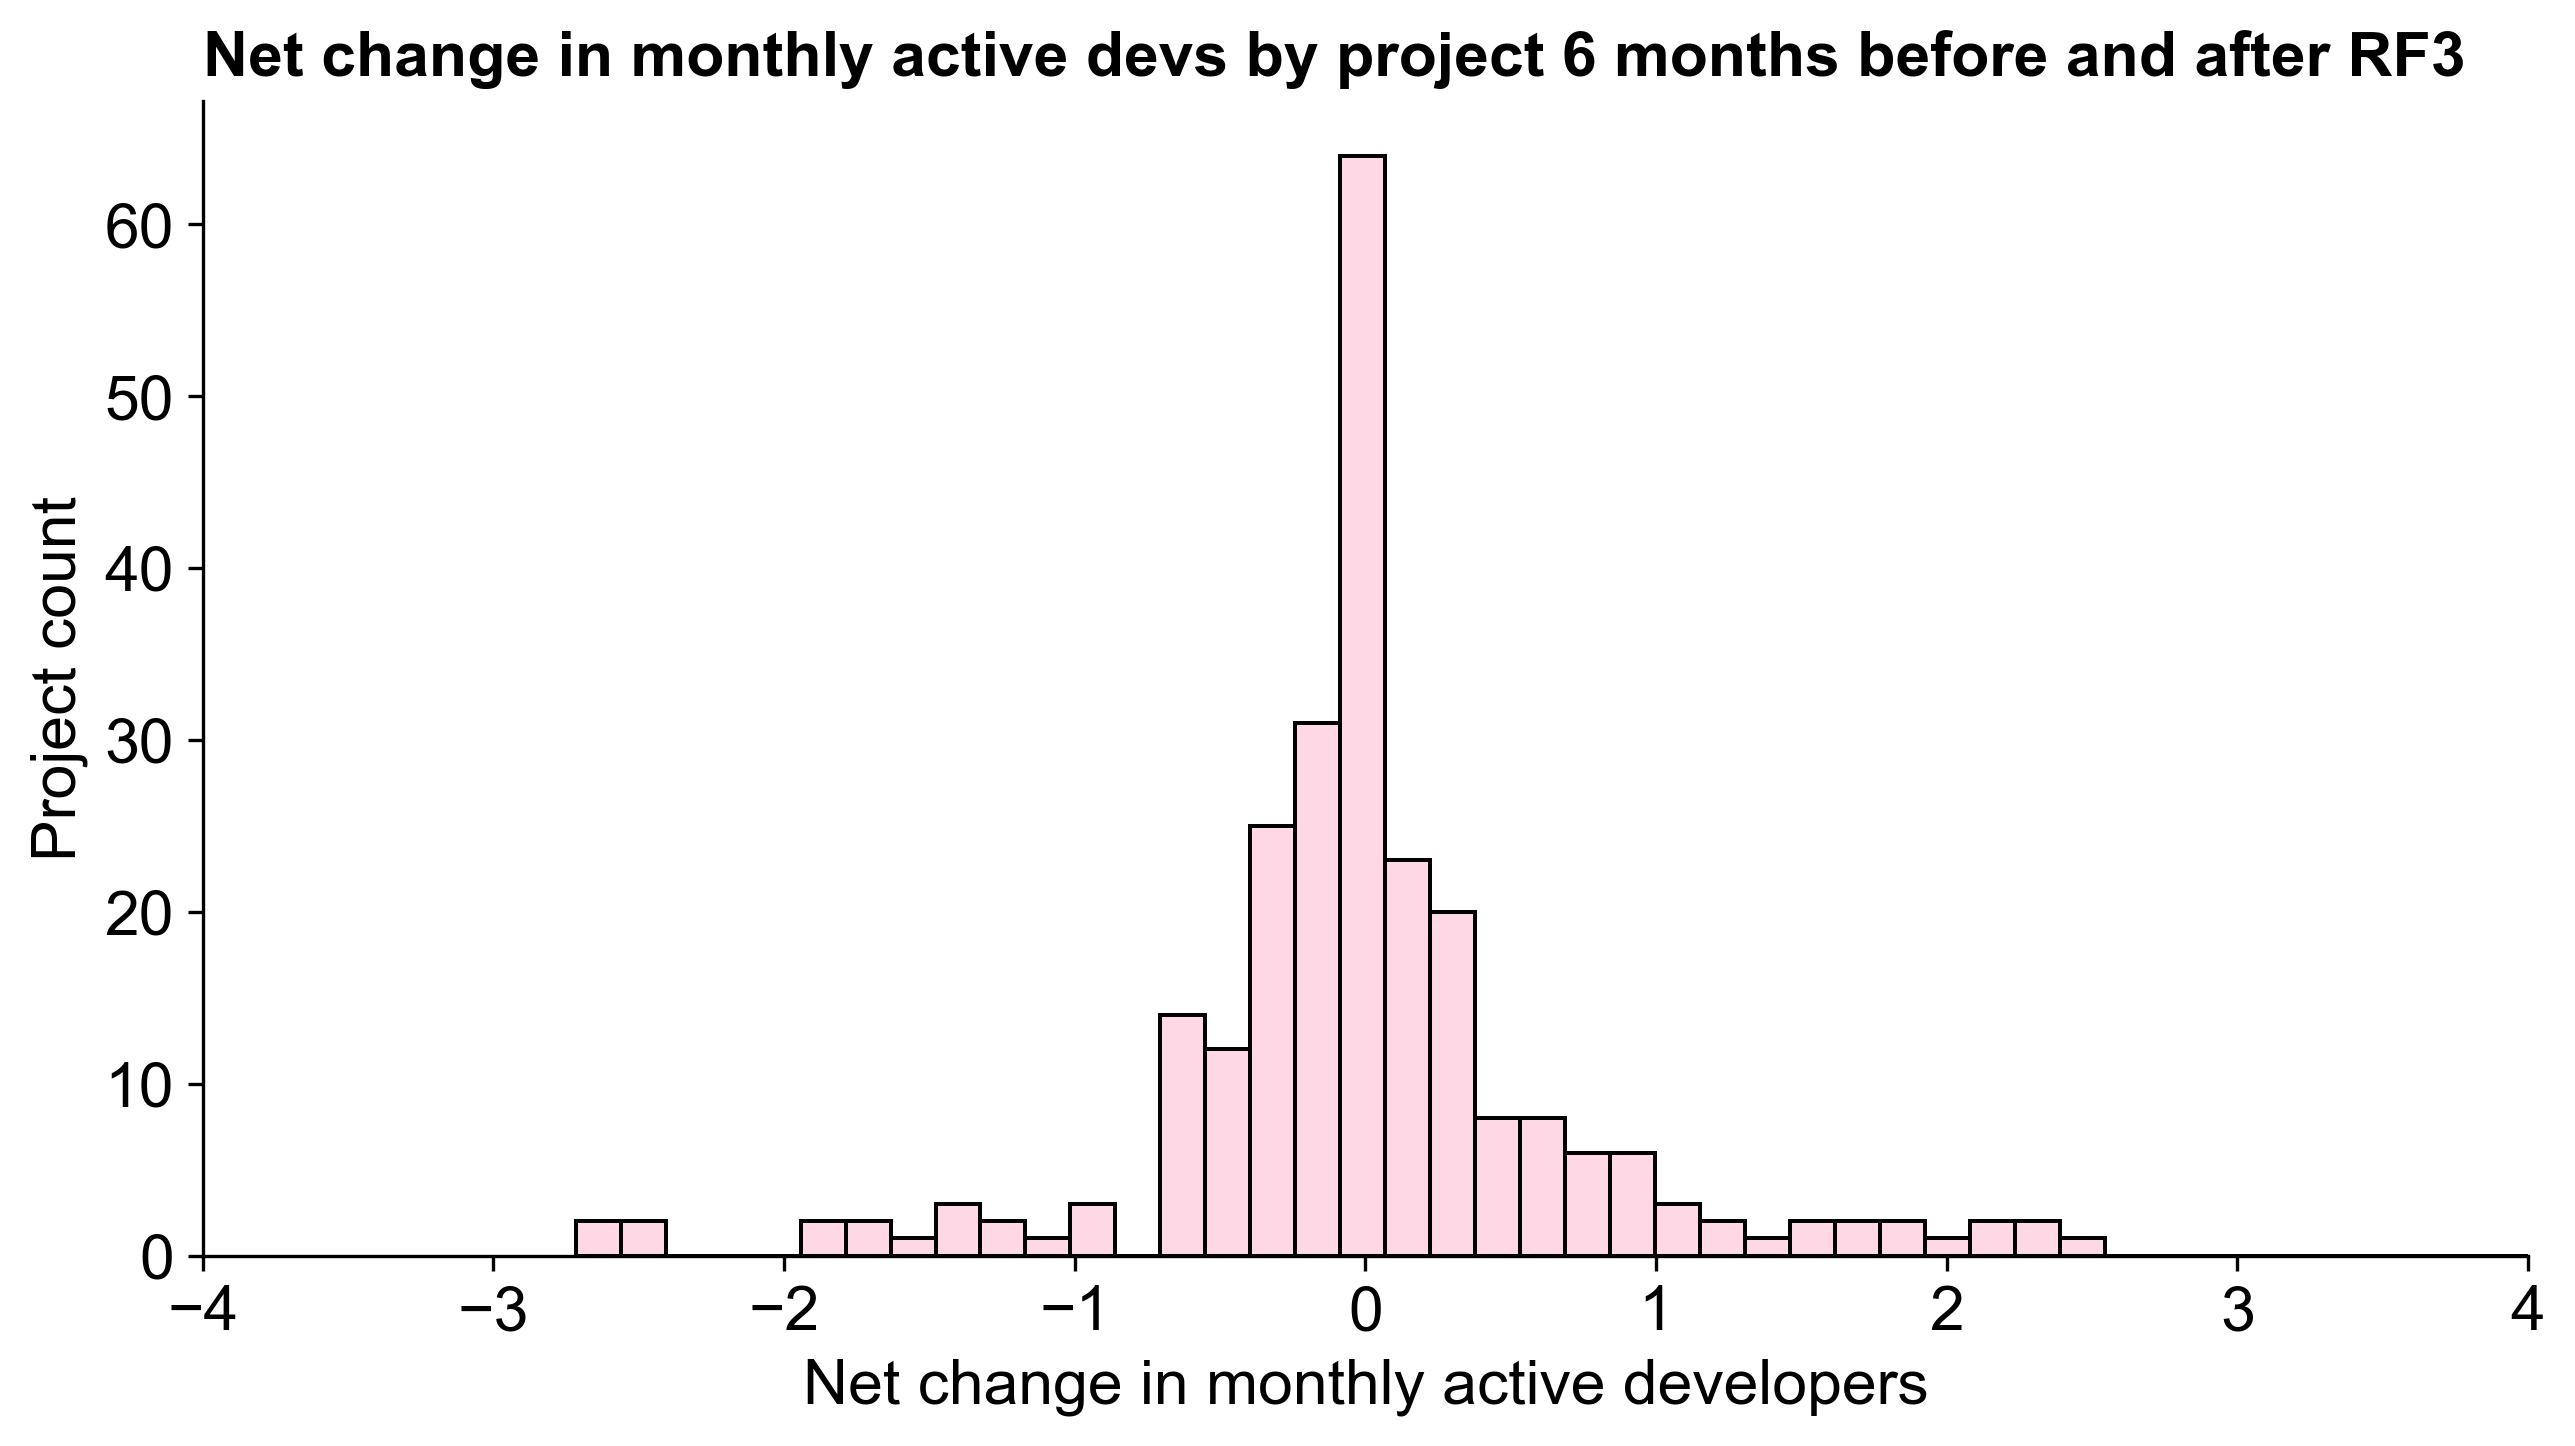
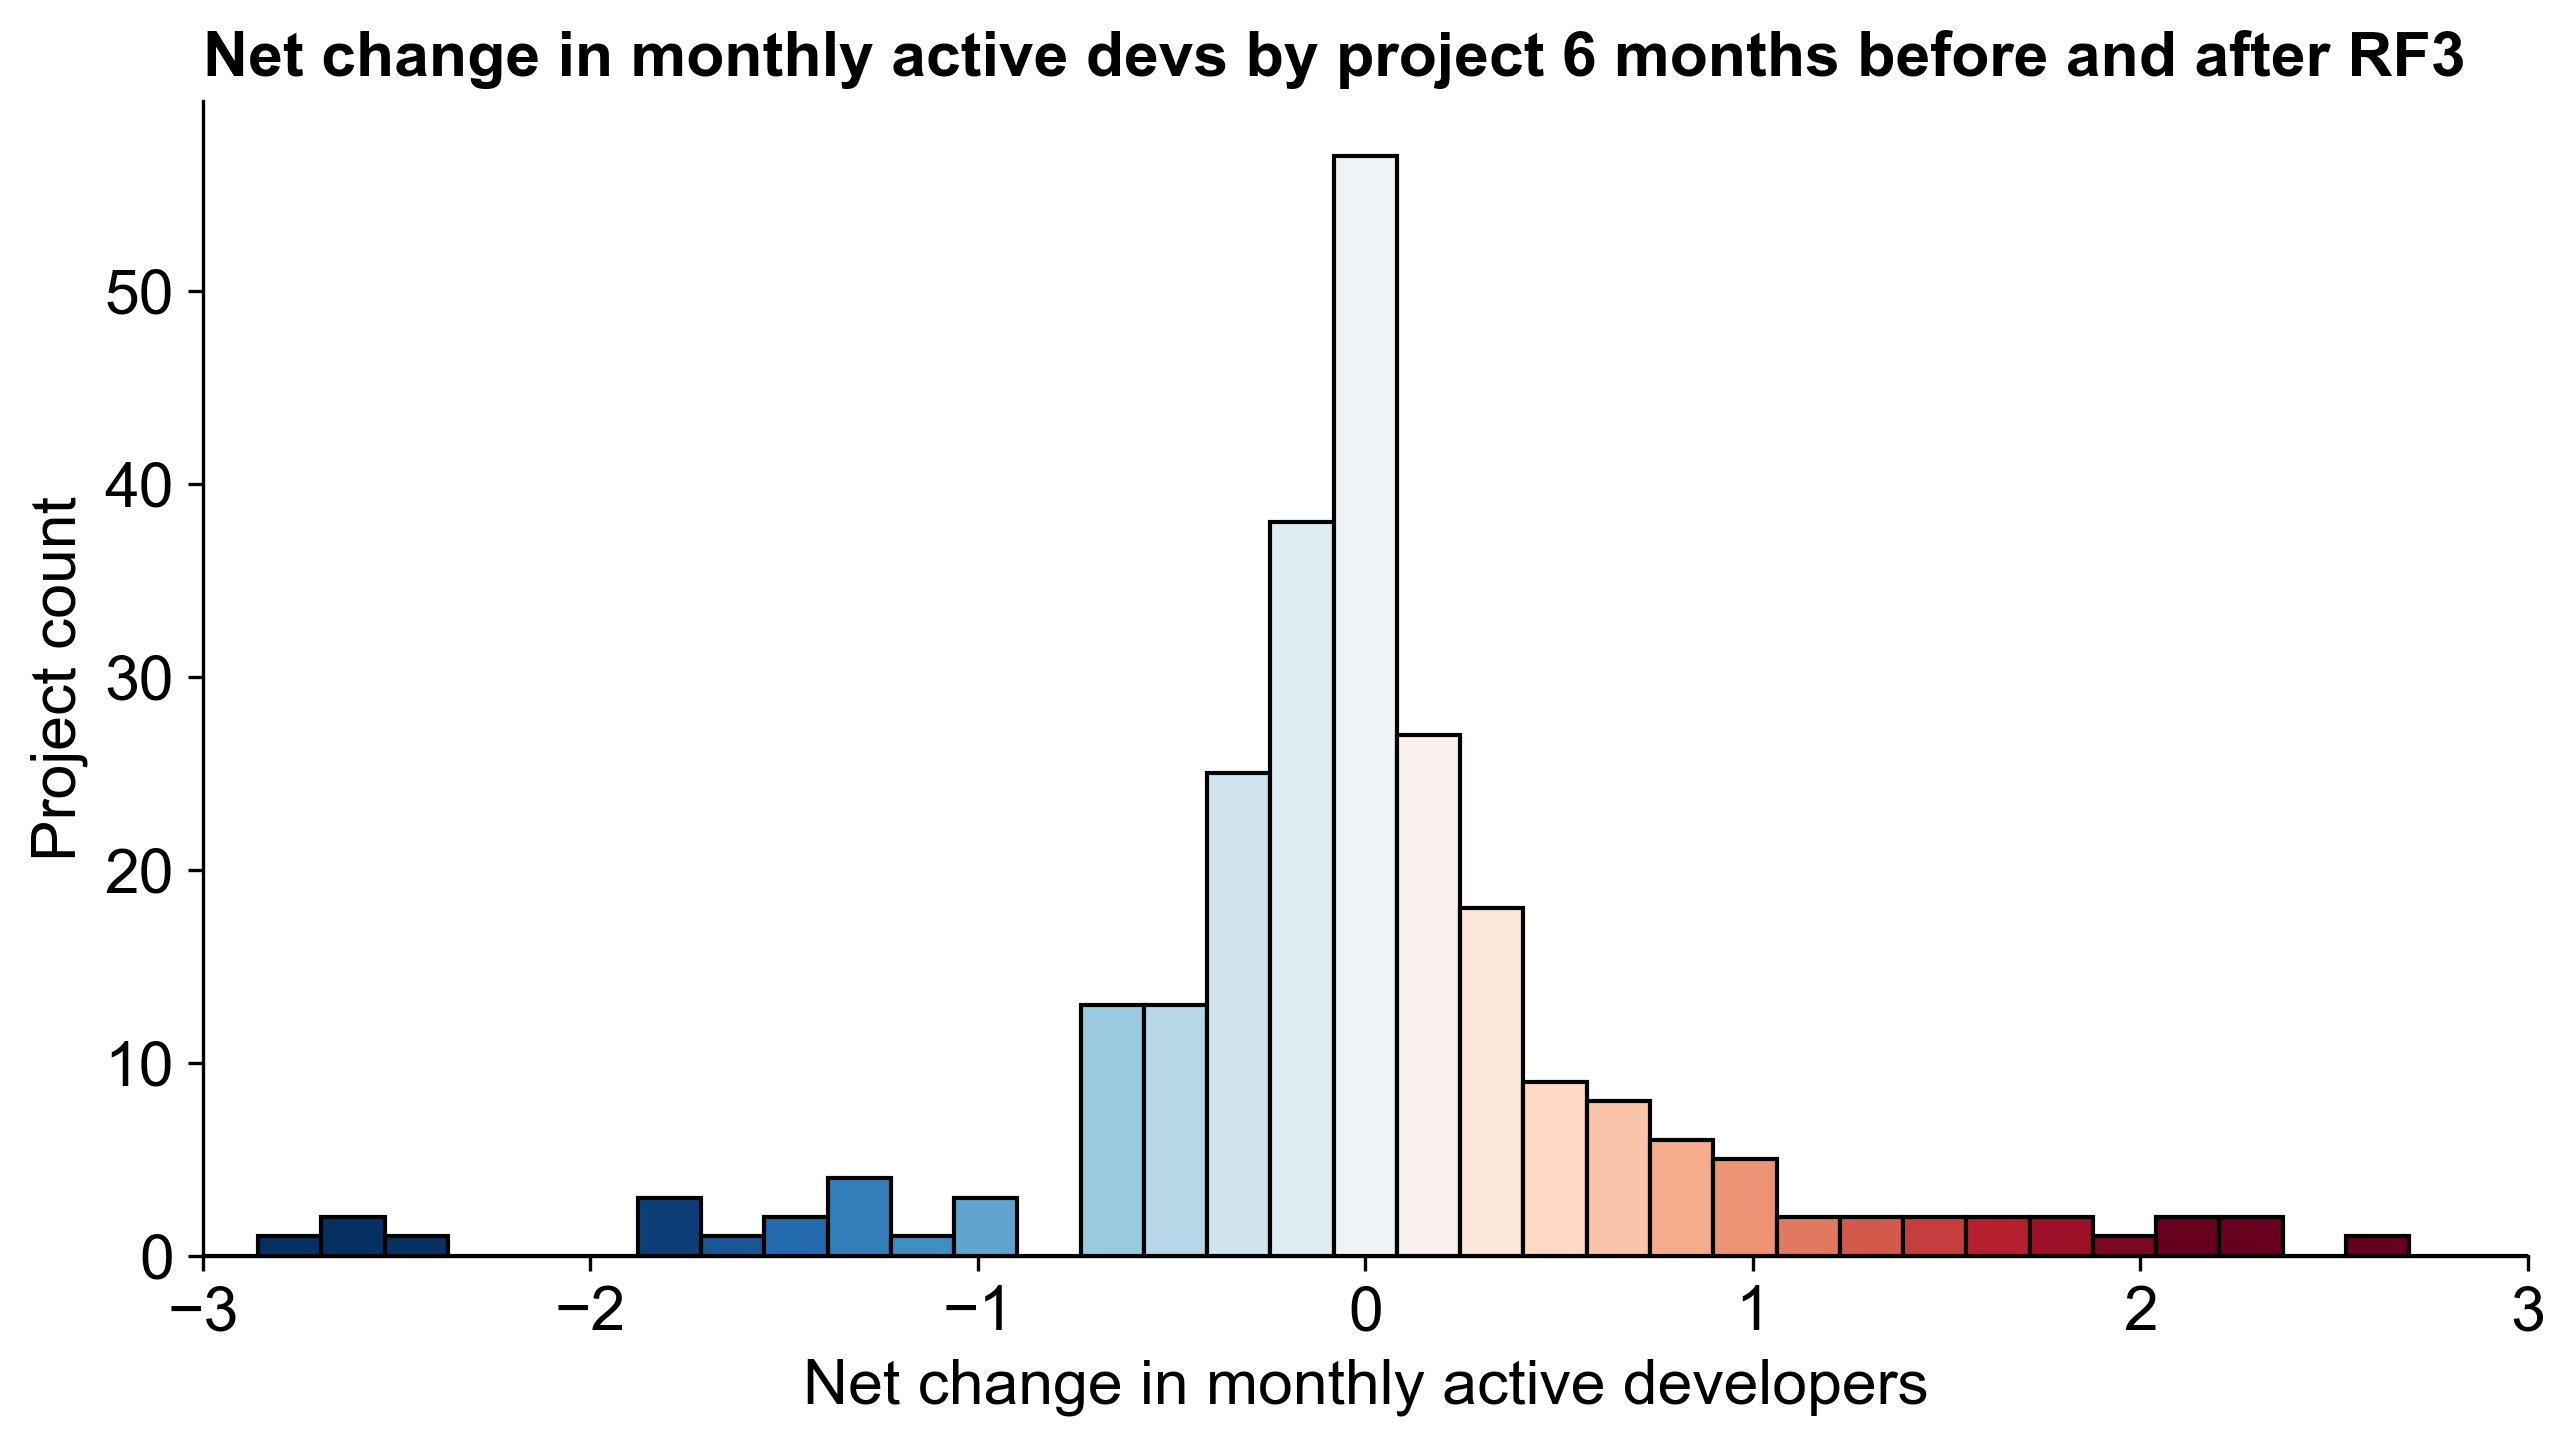
fix: color on histograms (#1805)
* fix: color on histograms

* fix: add comment on protocols that didn't apply for rf3

diff --git a/apps/docs/blog/2024-07-15-impact-of-retro-funding/index.md b/apps/docs/blog/2024-07-15-impact-of-retro-funding/index.md
@@ -69,15 +69,15 @@ These observations suggest that the longer a project has been participating in R
 
 To get a sense for what the baseline might be, we looked to the 960 projects that have been tagged as being part of other open source ecosystems but that have never received RF. This group includes projects from the broader Ethereum community as well as some non-crypto open source projects that have received grants from crypto foundations. All of these projects were screened for developer activity in the last 6 months before being added to OSS Directory.
 
-Although this group grew relatively fast in the first half of 2022, growth has slowed down and turned slightly negative over the past year. The overall growth is -0.4% over the past year, a net difference of 14.3% compared to the RF3 cohort.
+Although this group grew relatively fast in the first half of 2022, growth has slowed down and turned slightly negative over the past year. Overall, growth among projects in the "baseline" cohort was -0.4% over the past year, a net difference of 14.3% compared to the RF3 cohort. While these results are promising, we should once again be cautious about attributing causality to RF3. The RF3 cohort is not a random sample of OSS projects, and there are many other factors that could be driving the observed growth in developer activity.
 
-We can also add the 174 "new" projects that are applying for RF4 as a third comparison group. These projects have fewer full-time active developers overall (around 100), but an even faster growth rate of +18.4% over the past year.
+Finally, we can also add the 174 "new" projects that are applying for RF4 as a third comparison group. These projects have fewer full-time active developers overall (around 100), but an even faster growth rate of +18.4% over the past year.
 
 ![Comparison with Control](output_11_1.png)
 
-Although these results are promising, we should once again be cautious about attributing causality to RF3. The RF3 cohort is not a random sample of OSS projects, and there are many other factors that could be driving the observed growth in developer activity.
-
-As an additional benchmark, the Developer Report maintained by Electric Capital [estimates](https://www.developerreport.com/) shows an 11% yoy decline for "full-time developers" in the broader crypto ecosystem. Note that this is a much larger group of projects than the 960 in our baseline.
+:::info
+As an additional benchmark, the [Developer Report maintained by Electric Capital](https://www.developerreport.com/) shows ~11% yoy decline for "full-time developers" in the broader crypto ecosystem and a 10% decline for Ethereum. Note that this is a much larger group of projects than the 960 in our baseline.
+:::
 
 ### Project Level Changes in Developer Activity
 
@@ -164,9 +164,9 @@ One somewhat concerning sign is that many of these projects had deployments mont
 
 The chart below is a bit complex, but shows the days between the first public commit and the first onchain transaction for each project in the RF4 cohort. The x-axis is the date of the first commit and the y-axis is the timedelta between the first onchain transaction and first commit. A large, positive number like 200 means that the first transaction was 200 days before the first commit. The colors also correspond to the timedelta: red circles are ones that had their first transaction many months before their code was on GitHub; blue circles are ones that had their first transaction many months after their code was on GitHub. The size of the circle represents that number of transactions the project had across all its contracts over the period.
 
-Without getting into the details, we can see that there are many projects that had onchain deployments months or even years before they made their code public. This is a concerning sign for the health of the ecosystem, as it suggests that many projects are not following good practices for open source development, regardless of whether they decide to apply a permissive license to their code or not.
+Without getting into the details, we can see that there are many projects that had onchain deployments months or even years before they made their code public. This is a concerning sign for the health of the ecosystem, as it suggests that many projects are not following good practices for open source development, regardless of whether they decide to apply a permissive license to their code or not. It will be interesting to monitor these repos over time to see if they continue to be active and/or they were only made public for a brief period so as to qualify for retro funding.
 
-It will be interesting to monitor these repos over time to see if they continue to be active and/or they were only made public for a brief period so as to qualify for retro funding.
+We can also analyze the same data to see how many RF4 projects had their first public commit and their first onchain transaction _before_ the start of RF3 voting (in November 2023), but that did not apply for RF3. In total, there were 75 projects that met these criteria, including many well-known protocols like Layer Zero, 0x, LI.FI, Odos, and Superfluid.
 
 ![Commit vs. Transaction Timing](output_28_1.png)
 
